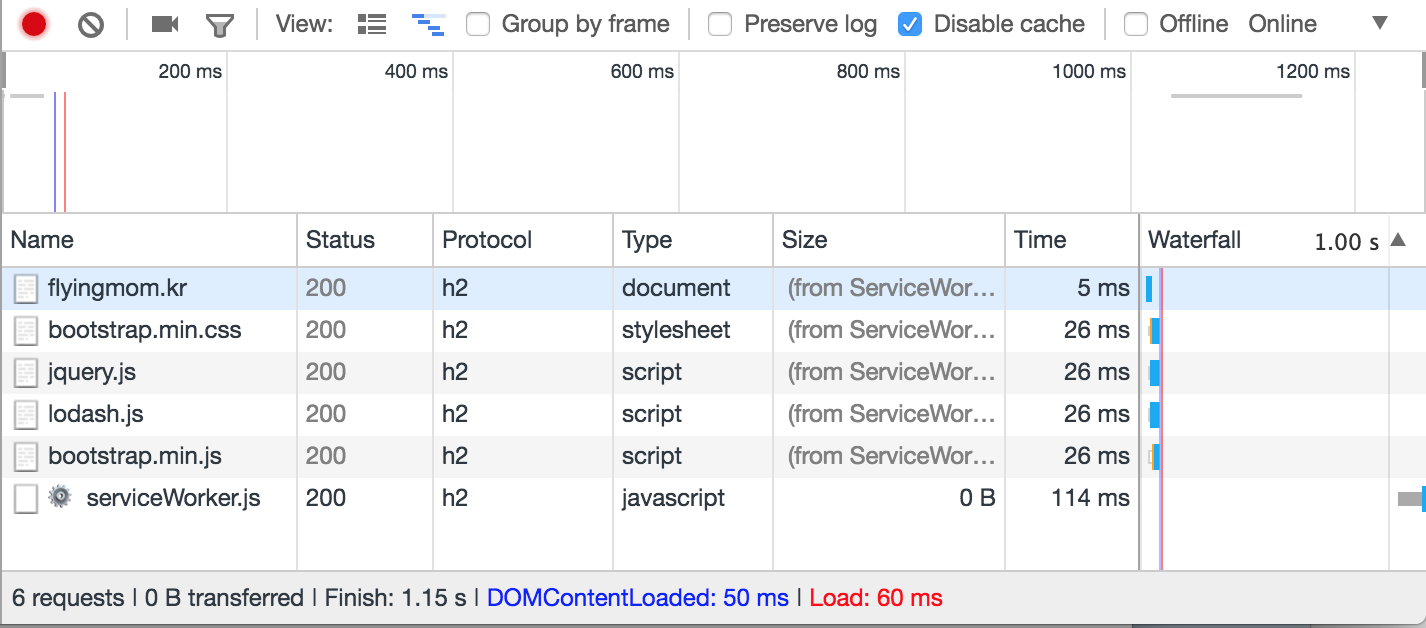
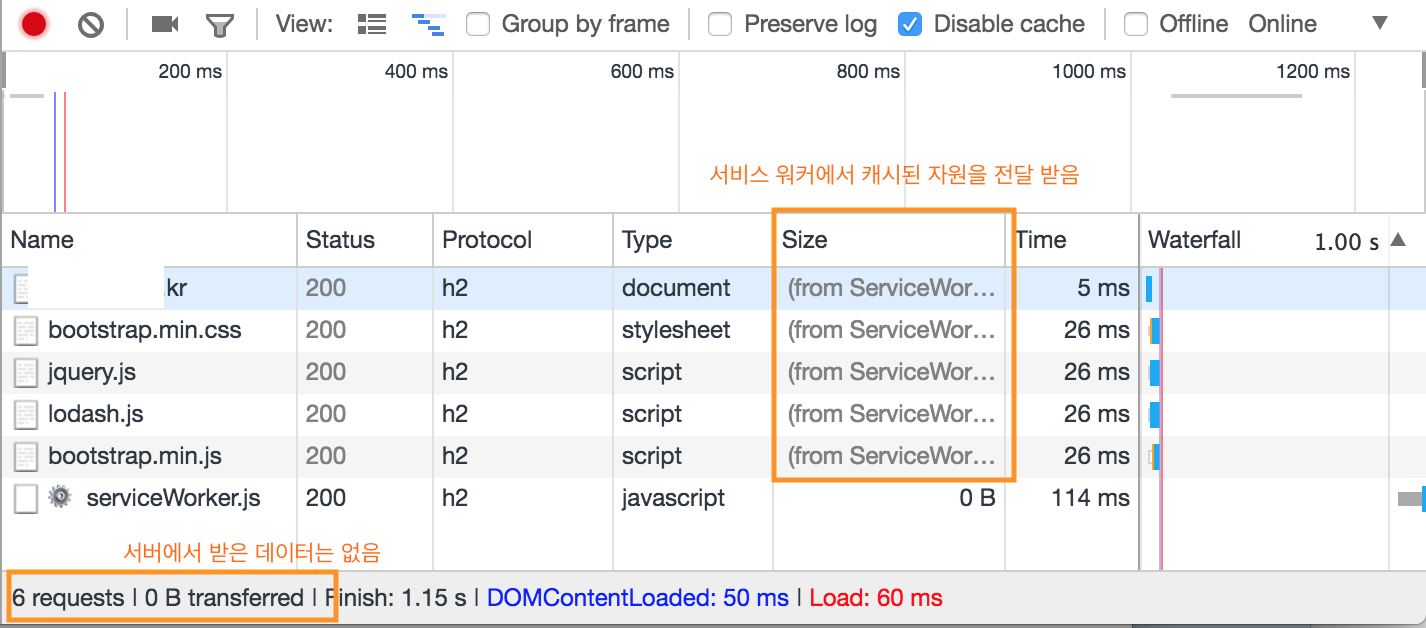
update contents

Changed region(s): [[0.4937, 0.242, 0.7714, 0.7866], [0.0, 0.8471, 0.2777, 0.9984], [0.0, 0.4236, 0.1234, 0.5143]]

diff --git a/_posts/2018-03-30-Progressive-Web-App-서비스-워커(Service-Worker)에서-캐쉬하기.md b/_posts/2018-03-30-Progressive-Web-App-서비스-워커(Service-Worker)에서-캐쉬하기.md
@@ -22,7 +22,7 @@ categories: PWA
 서비스워커를 사용하면 웹 어플리케이션이 마치 네이티브 앱 처럼 오프라인에서 동작할 수 있게 됩니다. 이 부분은 다음에 다시 다루겠습니다.
 
 # 서비스워커 구현
-서비스 워커 HTTPs에서만 동작합니다. 로컬에서 HTTPs key를 발급받고 테스트하는 방법은 하단의 [이슈해결](#이슈해결)을 참조합니다.
+서비스 워커 HTTPs에서만 동작합니다. 로컬에서 HTTPs key를 발급받고 테스트하는 방법은 하단의 [문제 해결](#문제해결)을 참조합니다.
 
 ## 등록
 브라우저에서 서비스 워커 객체를 활성화 하려면 먼저 serviceWorker.js파일을 등록해야합니다. serviceWorker.js에는 서비스 워커가 무엇을 캐쉬해야하는지 알려줍니다. serviceWorker.js를 작성하는 방법은 뒤에서 다루겠습니다. 우선 다음과 같이 index.html에 script를 추가합니다.
@@ -122,7 +122,18 @@ self.addEventListener('fetch', function(event) {
 ```
 
 # 크롬 디버깅에서 확인
-![ServiceWorker에서 로드 확인]({{ "/assets/service_worker/service_worker.png"}})
+### 1. 웹 페이지 최초 방문
+![ServiceWorker 객체 확인]({{ "/assets/service_worker/first_load.png"}})
+최초의 방문에서는 서버에서 자원을 내려받습니다. 샘플은 H2 기반에서 동작합니다만 HTTP1을 사용해도 무방합니다.
+
+### 2. 서비스 워커 객체 생성 확인
+![ServiceWorker 객체 확인]({{ "/assets/service_worker/sw_object.png"}})
+
+### 3. 서비스 워커가 캐시하고 있는 리스트
+![ServiceWorker 캐시 리스트]({{ "/assets/service_worker/sw_cache_list.png"}})
+
+### 4. 웹 페이지 재방문
+![ServiceWorker 캐시 사용]({{ "/assets/service_worker/service_worker.png"}})
 서버로부터 로드한 데이터가 0Byte임을 확인할 수 있습니다.
 
 # 서버의 최신상태 반영하기
@@ -193,7 +204,7 @@ self.addEventListener('activate', event => {
 
 위의 코드는 'activate'이벤트가 호출되고 즉시 이전 캐시를 제거할 것입니다.
 
-# 이슈 해결
+# 문제 해결 {#문제해결}
 1. 로컬 SSL을 사용하는 경우 (Self Signed SSL)
 인증되지 않은 SSL의 경우 서비스 워커가 생성되지 않습니다. (크롬)
 맥 사용자는 [Bypass Chrome SSL/certificate blockades](http://hints.macworld.com/article.php?story=20140510112547107)를 참고하여 크롬을 실행하시면 됩니다.
